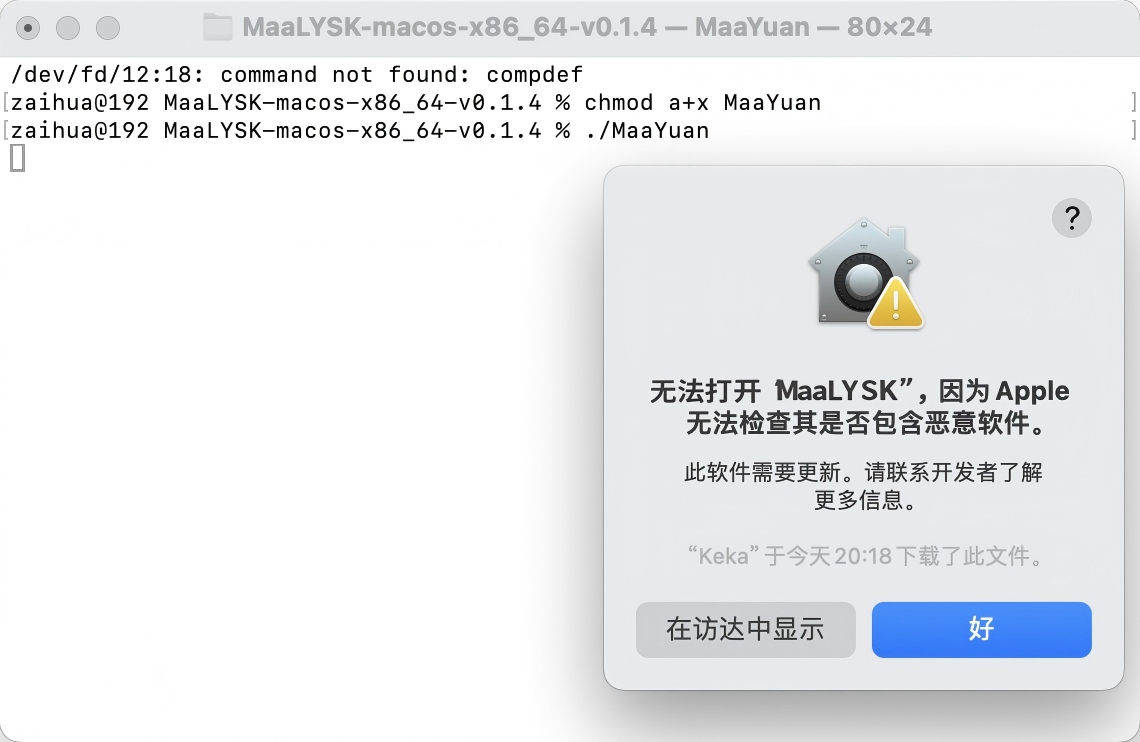
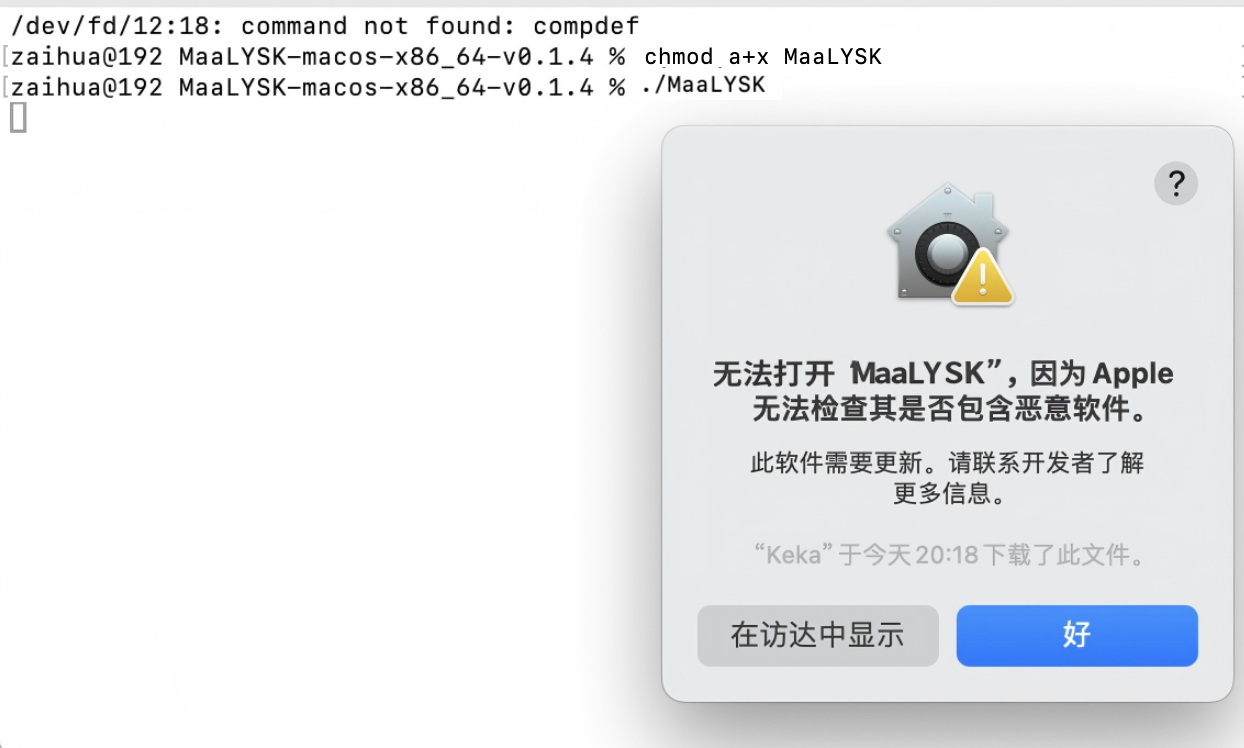
docs: 更新mac安装指南

diff --git a/docs/zh_cn/manual/1.3-图文教程.md b/docs/zh_cn/manual/1.3-图文教程.md
@@ -325,40 +325,75 @@ Intel 芯片及其他模拟器暂无教程提供，如需要可参考 MAA 官方
 
 ### 启动与权限设置
 
-1. 将下载好的MaaLYSK**解压缩**之后，右击文件夹，选择`服务`-`新建位于文件夹位置的终端窗口`
+1. 将下载好的MaaLYSK**解压缩**。解压好后，文件夹显示如下
+
+   ![下载后状态](/image/tutorial_image/mac/下载后状态.png)
 
    > 如果没有 Mac 解压软件推荐 `Keka`，App Store 即可下载。
 
+2. 右击解压好的文件夹，选择`服务`-`新建位于文件夹位置的终端窗口`
+
    ![环境安装1](/image/tutorial_image/mac/环境安装1.png)
 
-2. 在终端中依次输入指令
+3. 在终端中输入指令，将MaaLYSK制作为可执行文件
 
    ```shell
-   chmod a+x MFAAvalonia
-   ./MFAAvalonia
+   chmod a+x MaaLYSK
    ```
 
-3. 输入完指令之后会弹出窗口并提示：因为Apple无法检查其是否包含恶意软件……
+   ![输入指令](/image/tutorial_image/mac/输入指令.png)
 
-   ![环境安装2](/image/tutorial_image/mac/环境安装2.png)
+   ::: details
 
-4. 此时，请前往 `设置` - `隐私与安全性`，下滑至页面底部，找到“已阻止使用的应用”，点击 `仍要打开`/`仍然允许`。请设置窗口保持打开，由于涉及多个文件，需要依次进行允许。
+   输入上述指令后，MaaLYSK就被制作成了可执行文件。文件夹中的`MaaLYSK`变为黑框，类型变为Unix可执行文件
 
-   ![环境安装3](/image/tutorial_image/mac/环境安装3.png)
+   ![制作好可执行文件](/image/tutorial_image/mac/制作好可执行文件.png)
 
-   > 只要隐私与安全性中出现 `仍要打开`/`始终允许`，优先点击，再选择弹窗中的选项 `打开`/`在XX中显示/打开`（不要选择`移到废纸篓`/`取消`）
+   :::
 
-5. 再次在终端输入`./MFAAvalonia`
+4. 可执行文件制作完成后，输入指令
 
-6. 如果没有安装运行库或运行库安装有问题，就会出现如图这样的下载链接，复制链接到浏览器进行下载安装运行库，重新执行`./MFAAvalonia`即可
+   ```sh
+   ./MaaLYSK
+   ```
 
+   即可打开MaaLYSK。此时，直接双击文件夹内`MaaLYSK`，也可打开MaaLYSK。
+   
+   如果没有安装运行库或运行库安装有问题，就会出现如图这样的下载链接，复制链接到浏览器进行下载安装运行库，重新执行`./MaaLYSK`即可
+   
    ![环境安装4](/image/tutorial_image/mac/环境安装4.png)
+   
+   ::: tip **GateKeeper隔离解除**
+   
+   在 macOS 10.15 (Catalina) 及更高版本中，Gatekeeper 可能会阻止运行未签名的应用程序。
+   
+   若输入`./MaaLYSK`或双击文件夹内`MaaLYSK`后，会弹出窗口并提示：因为Apple无法检查其是否包含恶意软件……，或出现如果遇到"无法打开，因为无法验证开发者"等错误
+   
+   ![环境安装2](/image/tutorial_image/mac/环境安装2.png)
+   
+   进入文件夹终端目录，运行程序：
+   
+   ```sh
+   xattr -rd com.apple.quarantine ./*        #遍历当前文件夹，解除每个文件的gatekeeper隔离
+   ```
+   
+   ::: details 仍出现错误命令，无法打开
+   
+   1. 请前往 `设置` - `隐私与安全性`，下滑至页面底部，找到“已阻止使用的应用”，点击 `仍要打开`/`仍然允许`。请设置窗口保持打开，由于涉及多个文件，需要依次进行允许。（最新版本的mac新增`全部允许`，也可以试试）
+   
+      ![环境安装3](/image/tutorial_image/mac/环境安装3.png)
+   
+   2. 只要隐私与安全性中出现 `仍要打开`/`始终允许`，优先点击，再选择弹窗中的选项 `打开`/`在XX中显示/打开`（不要选择`移到废纸篓`/`取消`)
+   
+   3. 再次在终端输入`./MaaLYSK`
+   
+   :::
 
 ### 连接设置
 
 #### 自动连接
 
-1. 设置快捷方式，在项目文件夹中找到`MFAAvalonia`或`MaaLYSK`，右键选择`制作替身`，生成的新文件就是本项目的快捷方式了，双击即可打开`MaaLYSK`（放在程序坞、快捷栏均可）
+1. 设置快捷方式，在项目文件夹中找到`MaaLYSK`，右键选择`制作替身`，生成的新文件就是本项目的快捷方式了，双击即可打开`MaaLYSK`（放在程序坞、快捷栏均可）
 
    <img src="/image/tutorial_image/mac/软件设置0.png" alt="软件设置0" width="60%" />
 

diff --git a/docs/zh_cn/manual/1.1-快速开始.md b/docs/zh_cn/manual/1.1-快速开始.md
@@ -222,40 +222,42 @@
 
      > 如果没有 Mac 解压软件推荐 `Keka`，App Store 即可下载。
 
-  2. 在终端中依次输入指令
+  2. 在终端中**依次**输入指令
 
      ```shell
-     chmod a+x MFAAvalonia
-     ./MFAAvalonia
+     chmod a+x MaaLYSK        #将MaaLYSK制作为可执行文件
+     ./MaaLYSK                #打开MaaLYSK文件，相当于双击文件夹内MaaLYSK
      ```
 
-  3. 输入完指令之后会弹出窗口并提示：因为Apple无法检查其是否包含恶意软件
+  3. **GateKeeper隔离解除**
 
-  4. 前往 `系统设置` - `隐私与安全性` - `安全性` ，选择`任何来源`
+     在 macOS 10.15 (Catalina) 及更高版本中，Gatekeeper 可能会阻止运行未签名的应用程序
+  
+     若弹出窗口并提示："因为Apple无法检查其是否包含恶意软件"、"无法打开，因为无法验证开发者"等错误
 
-  5. 前往 `系统设置` - `隐私与安全性`，下滑至页面底部，找到`已阻止使用的应用`，点击 `仍要打开`/`仍然允许`。请设置窗口保持打开，由于涉及多个文件，需要依次进行允许。
-
-     > 只要隐私与安全性中出现 `仍要打开`/`始终允许`，优先点击，再选择弹窗中的选项 `打开`/`在XX中显示/打开`（不要选择`移到废纸篓`/`取消`）
-
-  6. 再次在终端输入`./MFAAvalonia`
-
-  7. 如果没有安装环境或环境安装有问题，就会出现如图这样的下载链接，复制链接到浏览器进行下载安装环境，重新执行`./MFAAvalonia`即可
-
-  > [!NOTE]
-  >
-  > 如果觉得弹窗允许太烦，尝试这个（从别的Maa抄来的orz）：
-  > 这个开启运行权限的指令属于系统级安全权限，会允许安装和运行来自任何来源的应用，开的权限等级似乎比较大。可以自己搜搜看了解一下再决定用不用！
-  >
-  > - **开启运行权限：**终端输入指令：`sudo spctl --master-disable`，输入密码（输入时无显示，确认后回车）
-  > - 打开 **系统设置 → 隐私与安全性 → 安全性** → 选择「任何来源」
-  > - 打开 **系统设置 → 隐私与安全性** → 底部「已阻止使用的应用」→ 点击「仍然允许」
-  > - **处理弹窗：**后续若多次弹窗阻止，保持「隐私与安全性」窗口打开，重复点击「仍然允许」
-  > - **验证：点击文件夹中**`MFAAvalonia`，成功后会弹出`MaaLYSK`主窗口；若无反应，重新执行权限指令。
-  > - **启动：**进入安装目录，找到`MFAAvalonia`**文件** → 右键「制作替身」（快捷方式），将替身拖到桌面/启动栏，后续直接点击启动
-
+     在文件夹终端输入
+  
+     ```shell
+     xattr -rd com.apple.quarantine ./*  
+     ```
+  
+     ::: details 仍然不行
+  
+     1. 前往 `系统设置` - `隐私与安全性` - `安全性` ，选择`任何来源`
+  
+     2. 前往 `系统设置` - `隐私与安全性`，下滑至页面底部，找到`已阻止使用的应用`，点击 `仍要打开`/`仍然允许`。请设置窗口保持打开，由于涉及多个文件，需要依次进行允许。（新版本mac似乎有`全部允许`选项，可以尝试）
+  
+        > 只要隐私与安全性中出现 `仍要打开`/`始终允许`，优先点击，再选择弹窗中的选项 `打开`/`在XX中显示/打开`（不要选择`移到废纸篓`/`取消`）
+  
+     3. 再次在终端输入`./MaaLYSK`
+  
+     :::
+  
+  4. 如果没有安装环境或环境安装有问题，就会出现`.Net10`的下载链接，复制链接到浏览器进行下载安装环境，重新执行`./MaaLYSK`即可
+  
 - **Linux**
 
-  待补充
+  同macOS，下载对应版本的压缩包，解压后运行 `MaaLYSK` 即可。
 
   **软件界面**
 
